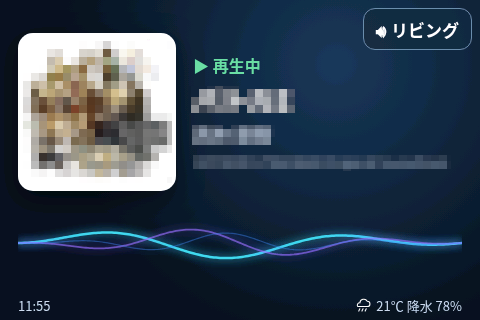
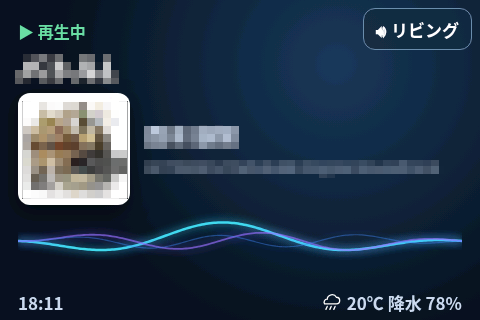
Update documentation for v0.3

diff --git a/README.md b/README.md
@@ -4,7 +4,7 @@ Raspberry Piと3.5インチLCDで、時計・天気とGoogle Homeの再生中楽
 
 - 通常時: 大きな時計、日付、現在気温、今日の最大降水確率
 - Google Homeの再生中: 曲名、アーティスト、アルバム、ジャケットへ自動切替
-- 再生画面: 480×320 LCD向けレイアウト、Waveビジュアライザー、時刻・天気を表示
+- 再生画面: 480×320 LCD向けレイアウト、長い曲名の自動横スクロール、Waveビジュアライザー、時刻・天気を表示
 - 天気: Open-Meteo（APIキー不要、15分更新）、天候に応じたSVGアイコン表示
 - 曲情報: PyChromecast（既定5秒更新）
 - 右上の機器名をタッチしてGoogle Homeを変更（選択値は再起動後も維持）
@@ -145,7 +145,7 @@ sudo systemctl restart raspi-signage
 
 ## 動作確認環境
 
-v0.2 は以下の環境で動作確認しています。
+v0.3 は以下の環境で動作確認しています。
 
 - Raspberry Pi 4
 - Raspberry Pi OS 64-bit（Debian GNU/Linux 13 / trixie ベース）
@@ -165,6 +165,7 @@ v0.2 は以下の環境で動作確認しています。
 - SVG天気アイコンの表示
 - Google Castデバイスの検出
 - 再生中の曲名、アーティスト、アルバム、ジャケットの表示
+- 長い曲名の自動横スクロール
 - 再生画面のWaveビジュアライザー
 - 再生画面の時刻・天気表示
 - `reload-display.sh` によるChromiumキオスクの再起動
